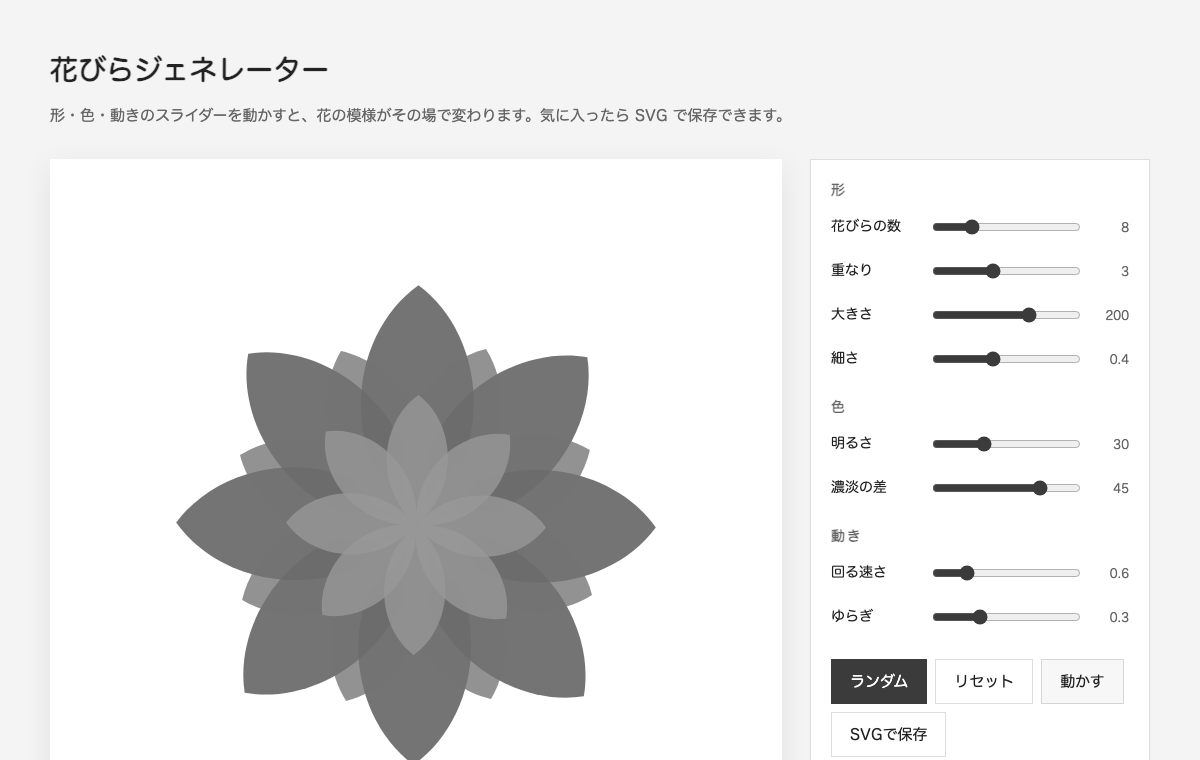
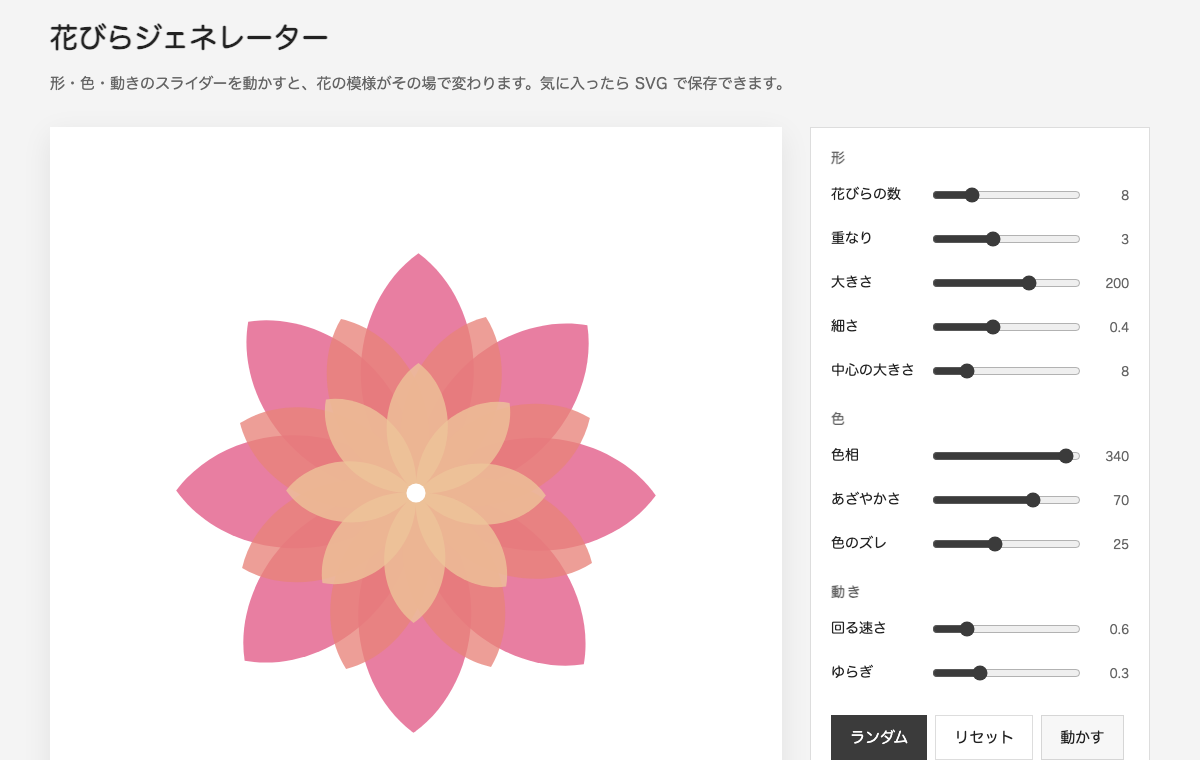
カラーに戻し、中心の大きさのスライダーを足す。縁取りは消す

diff --git a/index.html b/index.html
@@ -3,7 +3,7 @@
 <head>
   <meta charset="UTF-8">
   <meta name="viewport" content="width=device-width, initial-scale=1.0">
-  <meta name="description" content="形・色・動きのスライダーで、モノクロの花の模様が動く SVG アニメーションを作れるジェネレーティブアート。">
+  <meta name="description" content="形・色・動きのスライダーで、花の模様が動く SVG アニメーションを作れるジェネレーティブアート。">
   <title>花びらジェネレーター</title>
   <style>
     :root { --ink: #222; --sub: #666; --line: #ddd; --font: "Hiragino Maru Gothic ProN", "Zen Maru Gothic", system-ui, sans-serif; }
@@ -18,7 +18,7 @@
     .ga-panel { padding: 20px; background: #fff; border: 1px solid var(--line); }
     .ga-group { margin: 16px 0 4px; font-size: 14px; letter-spacing: .12em; color: var(--sub); }
     .ga-group:first-child { margin-top: 0; }
-    .ga-row { display: grid; grid-template-columns: 6.5em minmax(0, 1fr) 3em; align-items: center; gap: 8px; min-height: 44px; font-size: 14px; }
+    .ga-row { display: grid; grid-template-columns: 7.5em minmax(0, 1fr) 3em; align-items: center; gap: 8px; min-height: 44px; font-size: 14px; }
     .ga-row input { width: 100%; accent-color: #3b3b3b; }
     .ga-row output { text-align: right; font-size: 12px; color: var(--sub); }
     .ga-actions { display: flex; flex-wrap: wrap; gap: 8px; margin-top: 20px; }
@@ -50,7 +50,7 @@
 
   <script>
 // 花びらジェネレーター（generative-art.html 用）
-// 「形・色・動き」のパラメータから、花の模様の SVG を作る（色は白黒のモノクロトーン）。
+// 「形・色・動き」のパラメータから、花の模様の SVG を作る。
 // スライダーは PARAM_DEFS（スライダーの設計図）から自動で作るので、
 // パラメータを足したいときは、型（Params）と PARAM_DEFS に 1 行足すだけでよい。
 (() => {
@@ -61,8 +61,10 @@
    * @property {number} layers  【形】花びらの重なり（1〜6）
    * @property {number} radius  【形】大きさ（40〜280）
    * @property {number} slim    【形】花びらの細さ（0 = 太い 〜 1 = 細い）
-   * @property {number} tone    【色】いちばん外側の明るさ（0 = 黒 〜 90 = 白）
-   * @property {number} contrast【色】重なりごとの明暗の差（0〜60）。内側ほど明るくなる
+   * @property {number} center  【形】中心の白い点の大きさ（0 = なし 〜 40）
+   * @property {number} hue     【色】いちばん外側の色相（0〜360）
+   * @property {number} sat     【色】あざやかさ（0〜100）
+   * @property {number} spread  【色】重なりごとの色のズレ（0〜60）
    * @property {number} speed   【動き】回る速さ（0〜3）
    * @property {number} wobble  【動き】ふくらんだり縮んだりする幅（0〜1）
    */
@@ -76,14 +78,16 @@
     { key: 'layers', group: '形',   label: '重なり',       min: 1,  max: 6,   step: 1 },
     { key: 'radius', group: '形',   label: '大きさ',       min: 40, max: 280, step: 1 },
     { key: 'slim',   group: '形',   label: '細さ',         min: 0,  max: 1,   step: 0.01 },
-    { key: 'tone',     group: '色', label: '明るさ',     min: 0, max: 90, step: 1 },
-    { key: 'contrast', group: '色', label: '濃淡の差',   min: 0, max: 60, step: 1 },
+    { key: 'center', group: '形',   label: '中心の大きさ', min: 0,  max: 40,  step: 1 },
+    { key: 'hue',    group: '色',   label: '色相',         min: 0,  max: 360, step: 1 },
+    { key: 'sat',    group: '色',   label: 'あざやかさ',   min: 0,  max: 100, step: 1 },
+    { key: 'spread', group: '色',   label: '色のズレ',     min: 0,  max: 60,  step: 1 },
     { key: 'speed',  group: '動き', label: '回る速さ',     min: 0,  max: 3,   step: 0.05 },
     { key: 'wobble', group: '動き', label: 'ゆらぎ',       min: 0,  max: 1,   step: 0.01 },
   ];
 
   /** @type {Params} */
-  const DEFAULTS = { count: 8, layers: 3, radius: 200, slim: 0.4, tone: 30, contrast: 45, speed: 0.6, wobble: 0.3 };
+  const DEFAULTS = { count: 8, layers: 3, radius: 200, slim: 0.4, center: 8, hue: 340, sat: 70, spread: 25, speed: 0.6, wobble: 0.3 };
   const KEY = 'generative-art.params.v1';
   const SIZE = 600; // SVG の viewBox（正方形）
 
@@ -120,16 +124,17 @@
       const r = p.radius * ratio * breathe;
       const dir = i % 2 ? -1 : 1; // 層ごとに回る向きを逆に
       const angle = t * p.speed * 12 * (1 + i * 0.4) * dir + i * (180 / p.count);
-      const light = Math.min(95, p.tone + (i / p.layers) * p.contrast); // 内側ほど明るく（白黒なので彩度は 0）
+      const hue = (p.hue + i * p.spread) % 360;
+      const light = 62 + (i / p.layers) * 22; // 内側ほど明るく
       const d = petalPath(r, p.slim);
       let petals = '';
       for (let k = 0; k < p.count; k++) {
         petals += `<path d="${d}" transform="rotate(${(360 / p.count) * k})"/>`;
       }
-      layers.push(`<g transform="rotate(${angle.toFixed(2)})" fill="hsl(0 0% ${light}%)" fill-opacity="0.78">${petals}</g>`);
+      layers.push(`<g transform="rotate(${angle.toFixed(2)})" fill="hsl(${hue} ${p.sat}% ${light}%)" fill-opacity="0.78">${petals}</g>`);
     }
     return `<svg xmlns="http://www.w3.org/2000/svg" viewBox="${-SIZE / 2} ${-SIZE / 2} ${SIZE} ${SIZE}">`
-      + `<rect x="${-SIZE / 2}" y="${-SIZE / 2}" width="${SIZE}" height="${SIZE}" fill="#fff"/>${layers.join('')}</svg>`;
+      + `<rect x="${-SIZE / 2}" y="${-SIZE / 2}" width="${SIZE}" height="${SIZE}" fill="#fff"/>${layers.join('')}${p.center > 0 ? `<circle r="${p.center}" fill="#fff"/>` : ''}</svg>`;
   }
 
   // ---- 画面 ----
@@ -214,7 +219,6 @@
   draw();
   setPlaying(playing);
 })();
-
   </script>
 </body>
 </html>
